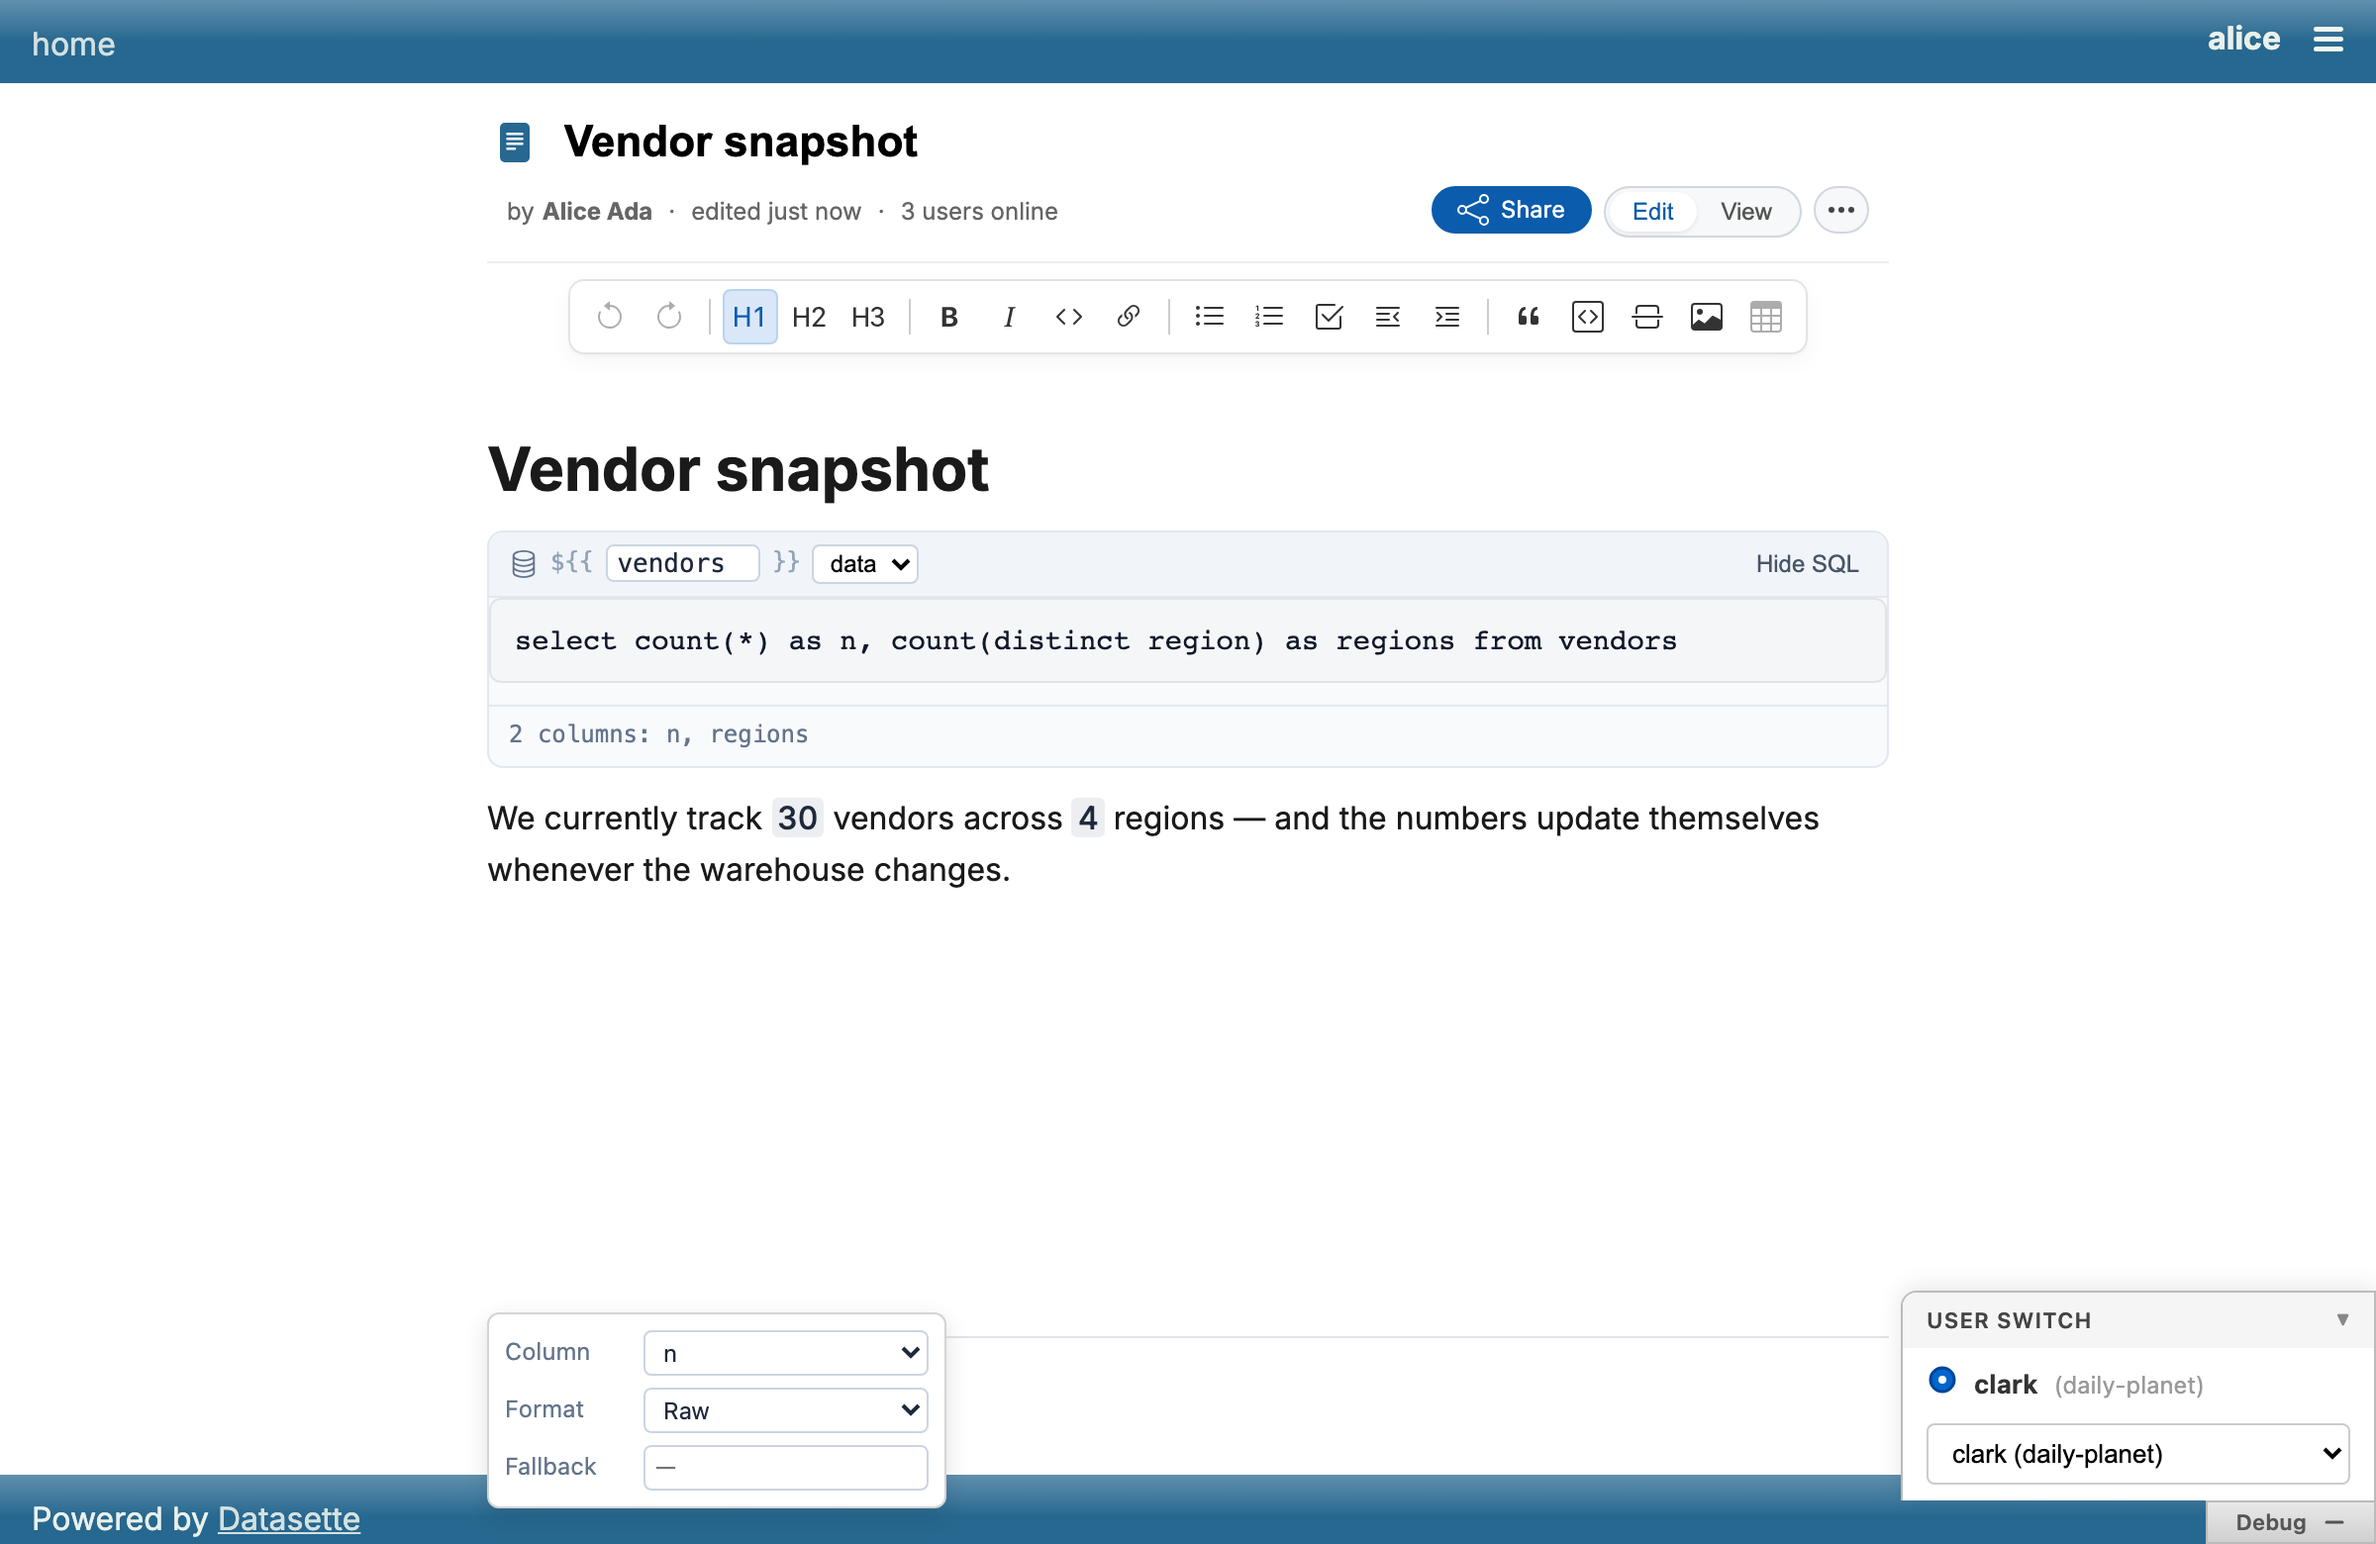
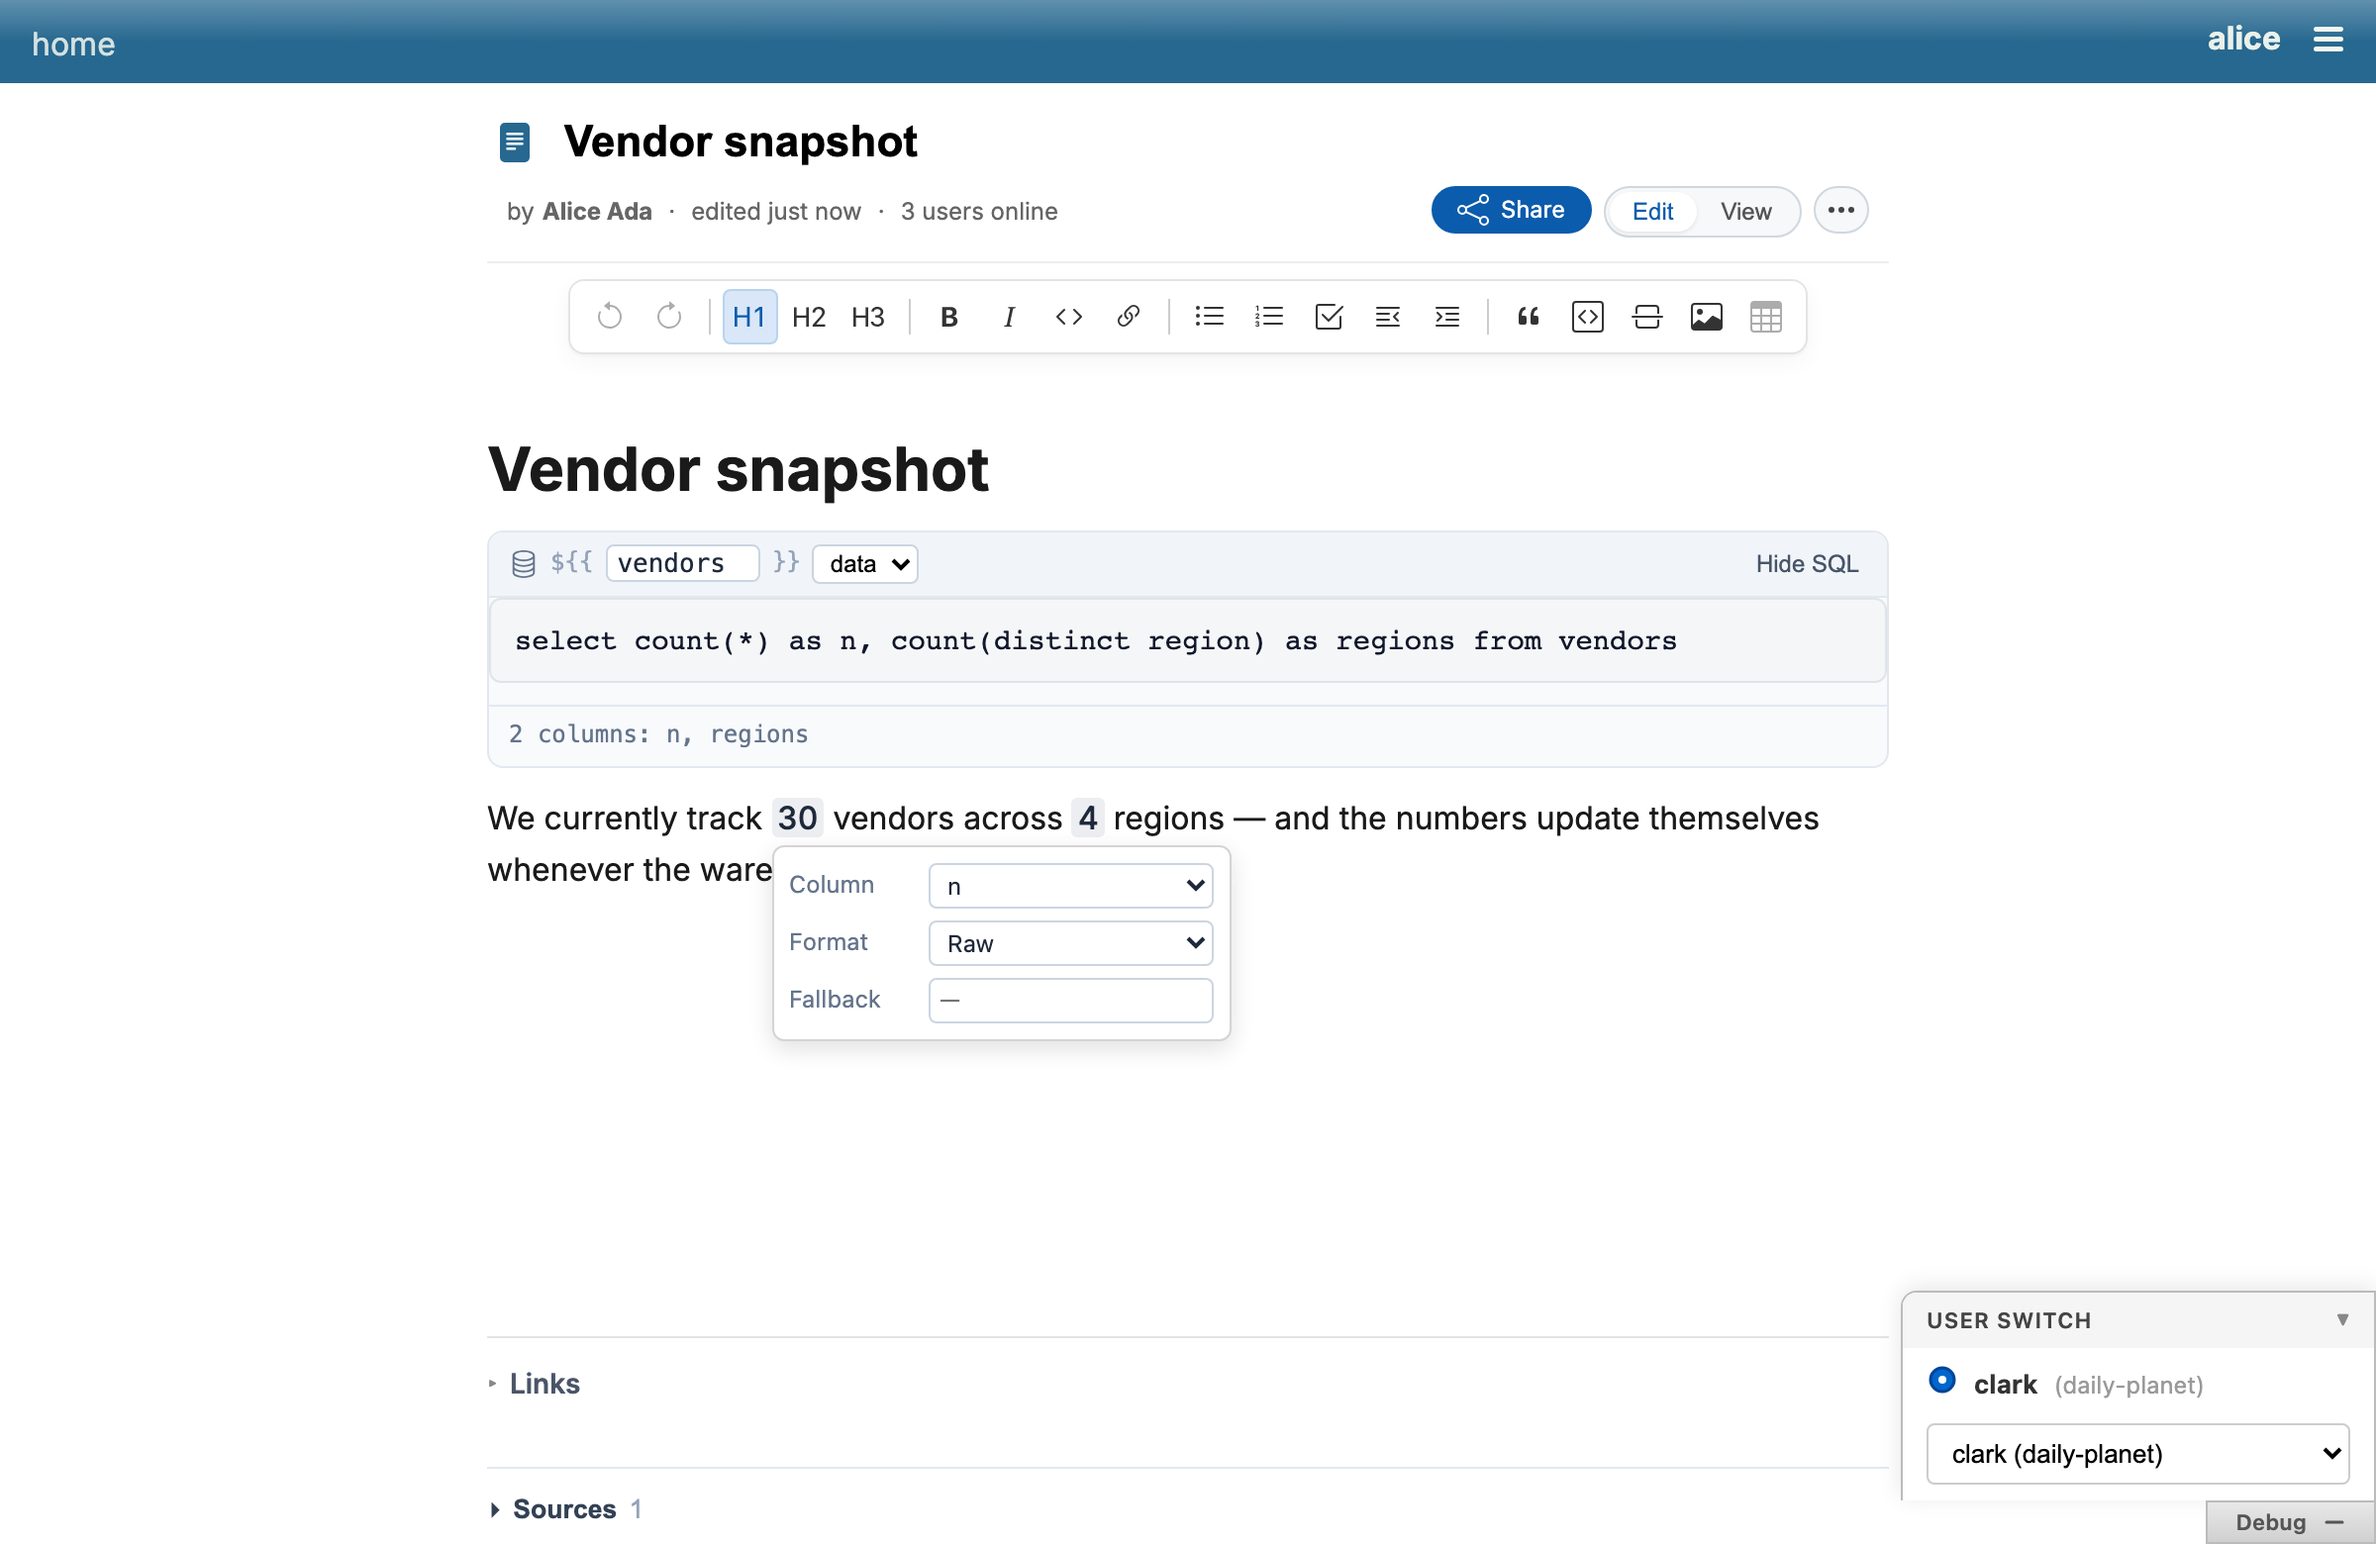
Inline SQL values: anchor value-chip popover to the chip
The click-to-edit popover (position:absolute) had no positioned
ancestor — `.pm-value` was display:inline with no `position` — so it
resolved against a far-up ancestor and dropped well below the chip.
Add `position: relative` to `.pm-value` so it anchors directly beneath.
Regenerated docs/screenshots/value-popover.png.

Claude-Session: https://claude.ai/code/session_01KwtKb8sdyAwJpAgDHdxhk7

diff --git a/frontend/src/lib/editor.css b/frontend/src/lib/editor.css
@@ -593,6 +593,9 @@
    slate so it reads as data, not a mention/tag/link. Rendered by valueView.ts;
    states: loading (muted), error/denied (red), ok (the value). */
 .editor-host .pm-value {
+  /* relative so the click-to-edit popover (position:absolute) anchors to the
+     chip, not a far-up positioned ancestor. */
+  position: relative;
   display: inline;
   white-space: nowrap;
   color: #1e293b;
